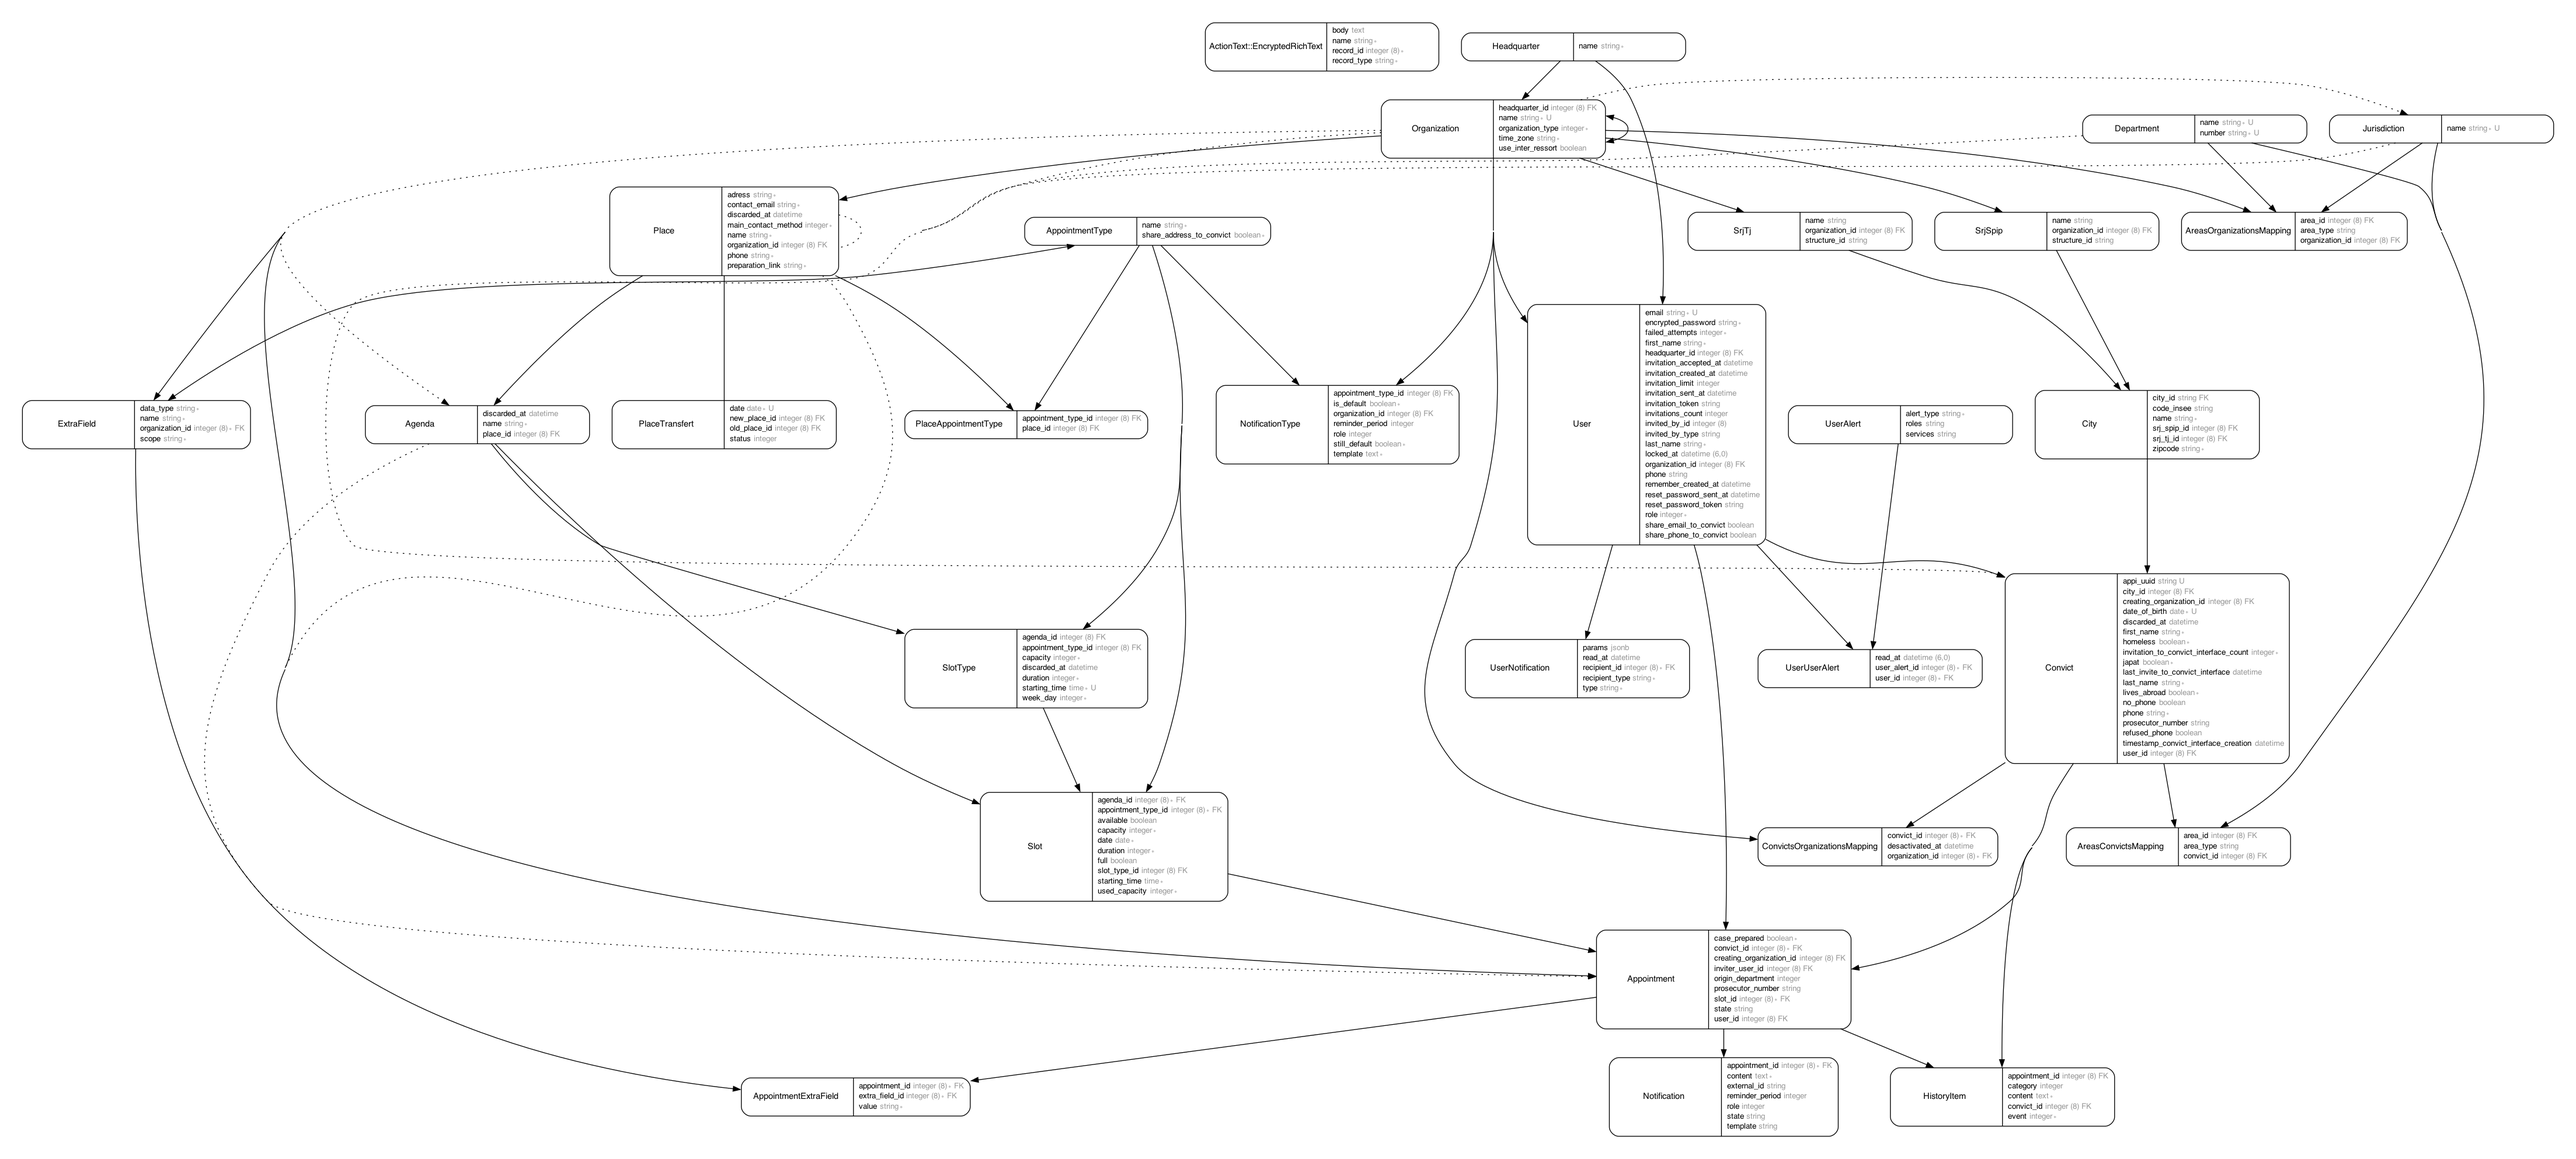
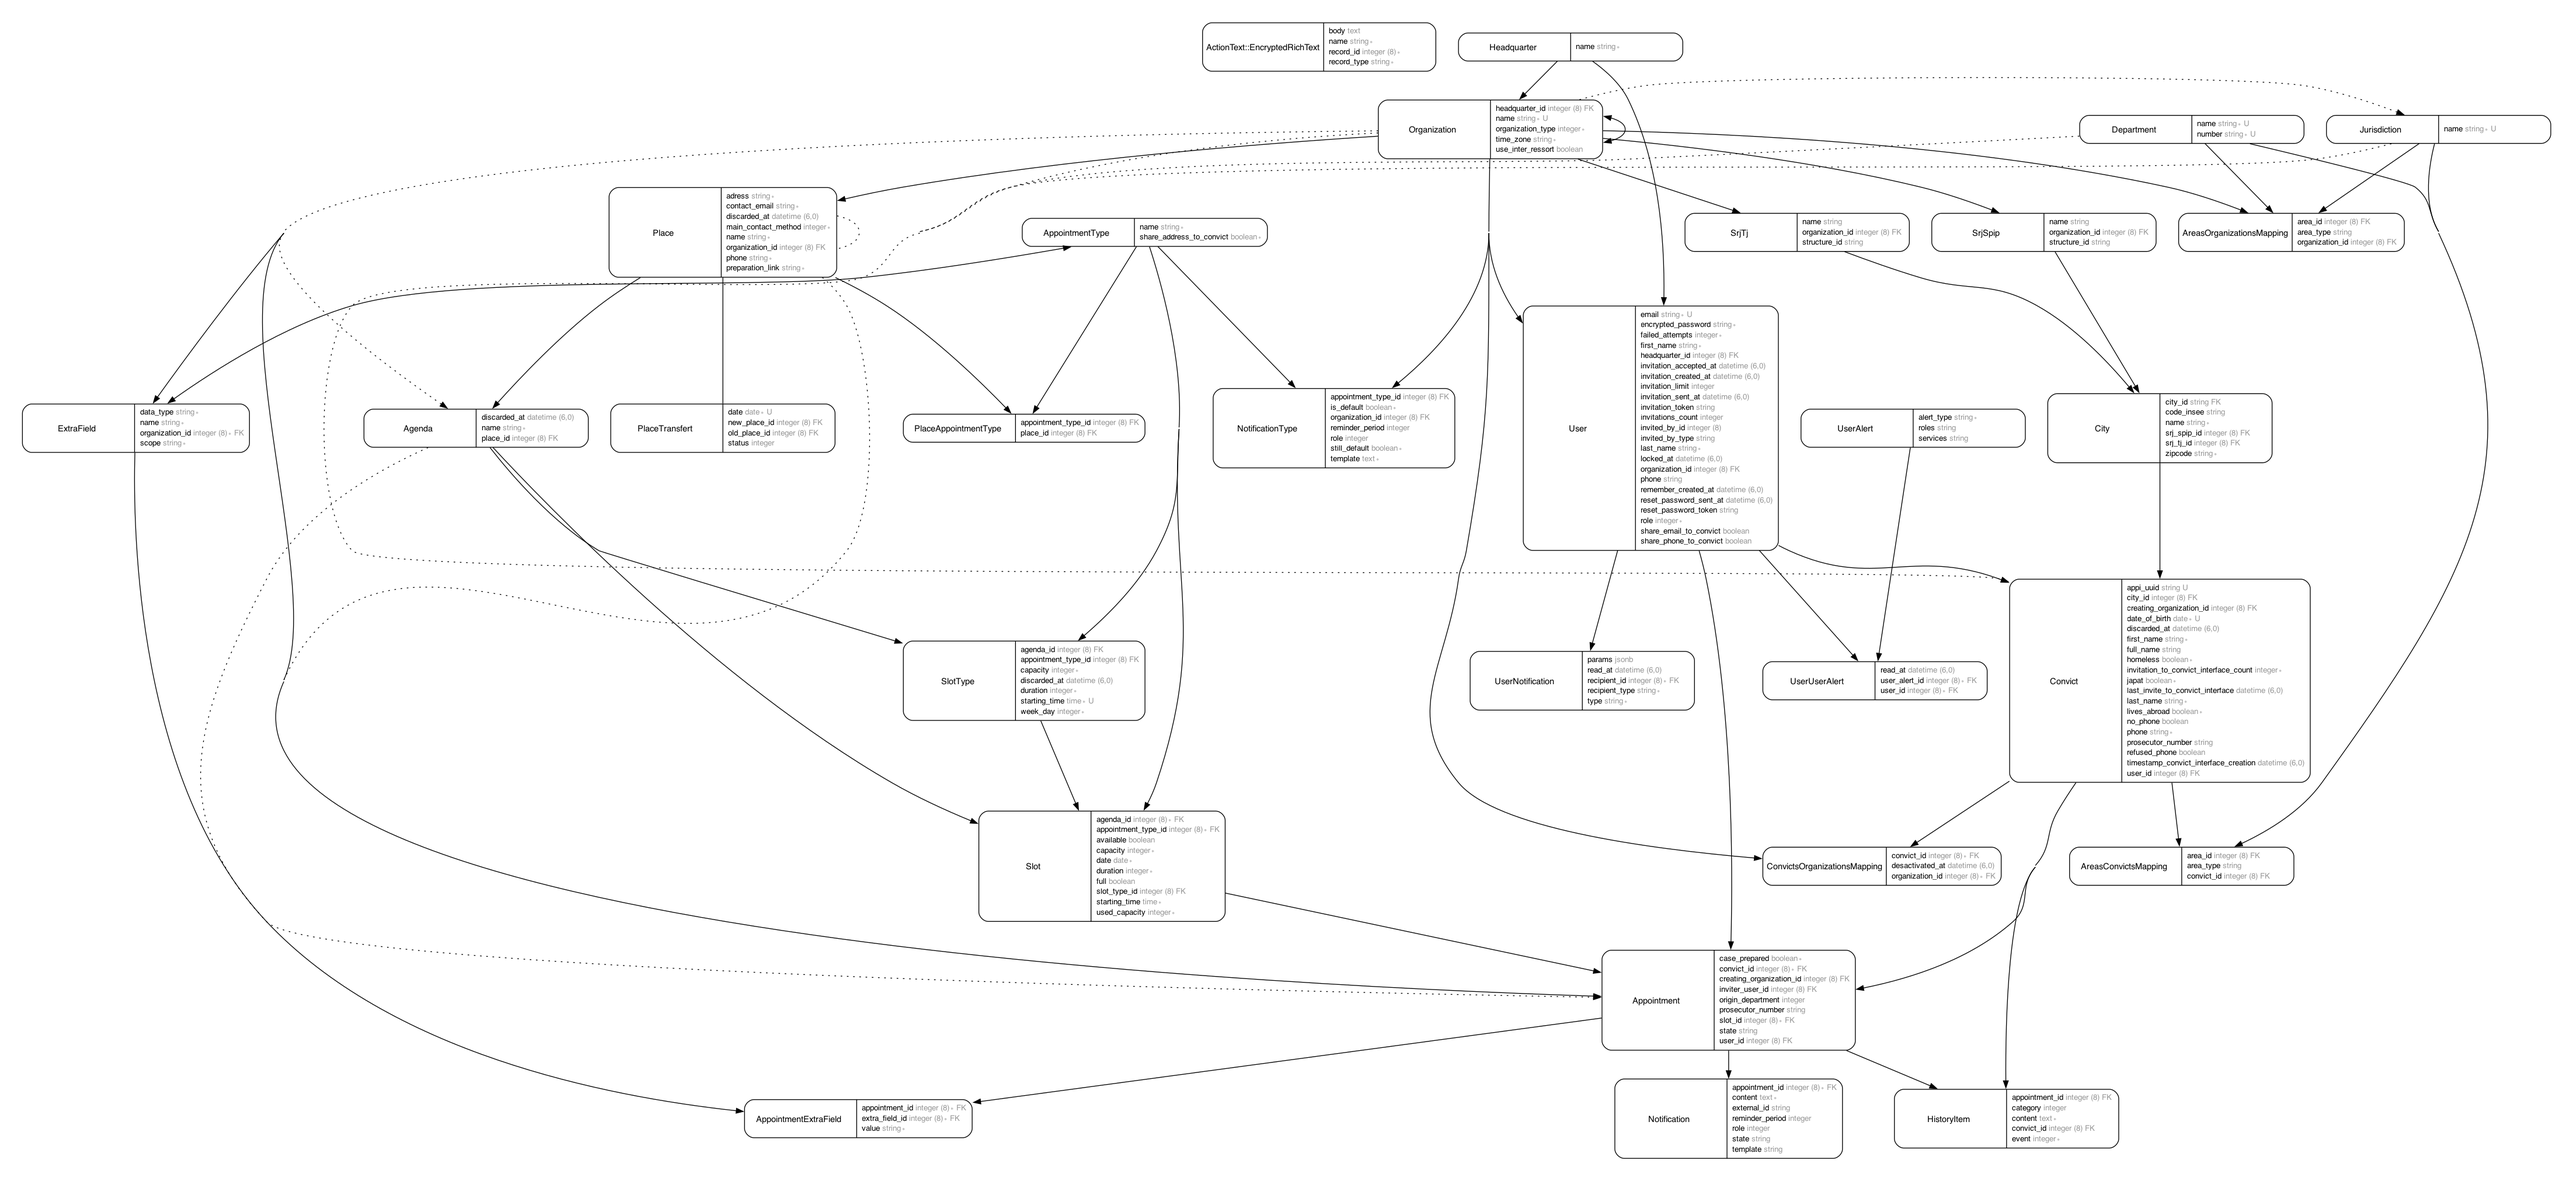
add full_name search administrate

diff --git a/db/schema.rb b/db/schema.rb
@@ -10,7 +10,7 @@
 #
 # It's strongly recommended that you check this file into your version control system.
 
-ActiveRecord::Schema[7.0].define(version: 2023_10_05_093918) do
+ActiveRecord::Schema[7.0].define(version: 2023_11_19_132139) do
   # These are extensions that must be enabled in order to support this database
   enable_extension "plpgsql"
   enable_extension "unaccent"
@@ -30,7 +30,7 @@ ActiveRecord::Schema[7.0].define(version: 2023_10_05_093918) do
     t.string "record_type", null: false
     t.bigint "record_id", null: false
     t.bigint "blob_id", null: false
-    t.datetime "created_at", precision: nil, null: false
+    t.datetime "created_at", null: false
     t.index ["blob_id"], name: "index_active_storage_attachments_on_blob_id"
     t.index ["record_type", "record_id", "name", "blob_id"], name: "index_active_storage_attachments_uniqueness", unique: true
   end
@@ -43,7 +43,7 @@ ActiveRecord::Schema[7.0].define(version: 2023_10_05_093918) do
     t.string "service_name", null: false
     t.bigint "byte_size", null: false
     t.string "checksum", null: false
-    t.datetime "created_at", precision: nil, null: false
+    t.datetime "created_at", null: false
     t.index ["key"], name: "index_active_storage_blobs_on_key", unique: true
   end
 
@@ -58,7 +58,7 @@ ActiveRecord::Schema[7.0].define(version: 2023_10_05_093918) do
     t.bigint "place_id"
     t.datetime "created_at", null: false
     t.datetime "updated_at", null: false
-    t.datetime "discarded_at", precision: nil
+    t.datetime "discarded_at"
     t.index ["discarded_at"], name: "index_agendas_on_discarded_at"
     t.index ["place_id"], name: "index_agendas_on_place_id"
   end
@@ -68,7 +68,7 @@ ActiveRecord::Schema[7.0].define(version: 2023_10_05_093918) do
     t.bigint "user_id"
     t.string "name"
     t.jsonb "properties"
-    t.datetime "time", precision: nil
+    t.datetime "time"
     t.index ["name", "time"], name: "index_ahoy_events_on_name_and_time"
     t.index ["properties"], name: "index_ahoy_events_on_properties", opclass: :jsonb_path_ops, using: :gin
     t.index ["user_id"], name: "index_ahoy_events_on_user_id"
@@ -100,7 +100,7 @@ ActiveRecord::Schema[7.0].define(version: 2023_10_05_093918) do
     t.string "app_version"
     t.string "os_version"
     t.string "platform"
-    t.datetime "started_at", precision: nil
+    t.datetime "started_at"
     t.index ["user_id"], name: "index_ahoy_visits_on_user_id"
     t.index ["visit_token"], name: "index_ahoy_visits_on_visit_token", unique: true
   end
@@ -193,17 +193,18 @@ ActiveRecord::Schema[7.0].define(version: 2023_10_05_093918) do
     t.boolean "refused_phone"
     t.string "prosecutor_number"
     t.string "appi_uuid"
-    t.datetime "discarded_at", precision: nil
+    t.datetime "discarded_at"
     t.bigint "user_id"
     t.integer "invitation_to_convict_interface_count", default: 0, null: false
-    t.datetime "timestamp_convict_interface_creation", precision: nil
-    t.datetime "last_invite_to_convict_interface", precision: nil
+    t.datetime "timestamp_convict_interface_creation"
+    t.datetime "last_invite_to_convict_interface"
     t.date "date_of_birth"
     t.boolean "homeless", default: false, null: false
     t.boolean "lives_abroad", default: false, null: false
     t.bigint "city_id"
     t.bigint "creating_organization_id"
     t.boolean "japat", default: false, null: false
+    t.virtual "full_name", type: :string, as: "(((first_name)::text || ' '::text) || (last_name)::text)", stored: true
     t.index ["city_id"], name: "index_convicts_on_city_id"
     t.index ["creating_organization_id"], name: "index_convicts_on_creating_organization_id"
     t.index ["discarded_at"], name: "index_convicts_on_discarded_at"
@@ -213,7 +214,7 @@ ActiveRecord::Schema[7.0].define(version: 2023_10_05_093918) do
   create_table "convicts_organizations_mappings", force: :cascade do |t|
     t.bigint "organization_id", null: false
     t.bigint "convict_id", null: false
-    t.datetime "desactivated_at", precision: nil
+    t.datetime "desactivated_at"
     t.datetime "created_at", null: false
     t.datetime "updated_at", null: false
     t.index ["convict_id"], name: "index_convicts_organizations_mappings_on_convict_id"
@@ -287,6 +288,7 @@ ActiveRecord::Schema[7.0].define(version: 2023_10_05_093918) do
     t.string "name", limit: 255, null: false
     t.string "address", limit: 255, null: false
     t.string "phone", limit: 255, null: false
+    t.string "type", limit: 10
   end
 
   create_table "notification_types", force: :cascade do |t|
@@ -360,7 +362,7 @@ ActiveRecord::Schema[7.0].define(version: 2023_10_05_093918) do
     t.string "contact_email"
     t.integer "main_contact_method", default: 0, null: false
     t.string "preparation_link", default: "https://mon-suivi-justice.beta.gouv.fr/", null: false
-    t.datetime "discarded_at", precision: nil
+    t.datetime "discarded_at"
     t.index ["discarded_at"], name: "index_places_on_discarded_at"
     t.index ["organization_id"], name: "index_places_on_organization_id"
   end
@@ -385,7 +387,7 @@ ActiveRecord::Schema[7.0].define(version: 2023_10_05_093918) do
     t.datetime "created_at", null: false
     t.datetime "updated_at", null: false
     t.bigint "agenda_id"
-    t.datetime "discarded_at", precision: nil
+    t.datetime "discarded_at"
     t.index ["agenda_id"], name: "index_slot_types_on_agenda_id"
     t.index ["appointment_type_id"], name: "index_slot_types_on_appointment_type_id"
     t.index ["discarded_at"], name: "index_slot_types_on_discarded_at"
@@ -452,7 +454,7 @@ ActiveRecord::Schema[7.0].define(version: 2023_10_05_093918) do
     t.bigint "recipient_id", null: false
     t.string "type", null: false
     t.jsonb "params"
-    t.datetime "read_at", precision: nil
+    t.datetime "read_at"
     t.datetime "created_at", null: false
     t.datetime "updated_at", null: false
     t.index ["read_at"], name: "index_user_notifications_on_read_at"
@@ -474,17 +476,17 @@ ActiveRecord::Schema[7.0].define(version: 2023_10_05_093918) do
     t.string "email", default: "", null: false
     t.string "encrypted_password", default: "", null: false
     t.string "reset_password_token"
-    t.datetime "reset_password_sent_at", precision: nil
-    t.datetime "remember_created_at", precision: nil
+    t.datetime "reset_password_sent_at"
+    t.datetime "remember_created_at"
     t.datetime "created_at", null: false
     t.datetime "updated_at", null: false
     t.integer "role", null: false
     t.string "first_name"
     t.string "last_name"
     t.string "invitation_token"
-    t.datetime "invitation_created_at", precision: nil
-    t.datetime "invitation_sent_at", precision: nil
-    t.datetime "invitation_accepted_at", precision: nil
+    t.datetime "invitation_created_at"
+    t.datetime "invitation_sent_at"
+    t.datetime "invitation_accepted_at"
     t.integer "invitation_limit"
     t.string "invited_by_type"
     t.bigint "invited_by_id"
@@ -511,7 +513,7 @@ ActiveRecord::Schema[7.0].define(version: 2023_10_05_093918) do
     t.string "event", null: false
     t.string "whodunnit"
     t.text "object"
-    t.datetime "created_at", precision: nil
+    t.datetime "created_at"
     t.text "object_changes"
     t.index ["item_type", "item_id"], name: "index_versions_on_item_type_and_item_id"
   end

diff --git a/app/models/convict.rb b/app/models/convict.rb
@@ -168,10 +168,6 @@ class Convict < ApplicationRecord
   # rubocop:enable Metrics/CyclomaticComplexity
   # rubocop:enable Metrics/PerceivedComplexity
 
-  def full_name
-    "#{first_name} #{last_name}"
-  end
-
   def find_duplicates
     name_conditions = 'lower(first_name) = ? AND lower(last_name) = ?'
     prefixed_phone = PhonyRails.normalize_number(phone, country_code: 'FR')

diff --git a/config/initializers/filter_parameter_logging.rb b/config/initializers/filter_parameter_logging.rb
@@ -3,5 +3,5 @@
 # Configure sensitive parameters which will be filtered from the log file.
 Rails.application.config.filter_parameters += [
   :passw, :secret, :token, :_key, :crypt, :salt, :certificate, :otp, :ssn,
-  :phone, :email, :first_name, :last_name, :date_of_birth, :appi_uuid
+  :phone, :email, :first_name, :last_name, :full_name, :date_of_birth, :appi_uuid
 ]

diff --git a/app/dashboards/convict_dashboard.rb b/app/dashboards/convict_dashboard.rb
@@ -13,6 +13,7 @@ class ConvictDashboard < Administrate::BaseDashboard
     ),
     first_name: Field::String,
     last_name: Field::String,
+    full_name: Field::String,
     organizations: Field::HasMany,
     appi_uuid: Field::String,
     city: Field::BelongsToSearch,

diff --git a/db/migrate/20231119132139_add_full_name_to_convict.rb b/db/migrate/20231119132139_add_full_name_to_convict.rb
@@ -1,0 +1,5 @@
+class AddFullNameToConvict < ActiveRecord::Migration[7.0]
+  def change
+    add_column :convicts, :full_name, :virtual, type: :string, as: "first_name || ' ' || last_name", stored: true
+  end
+end
